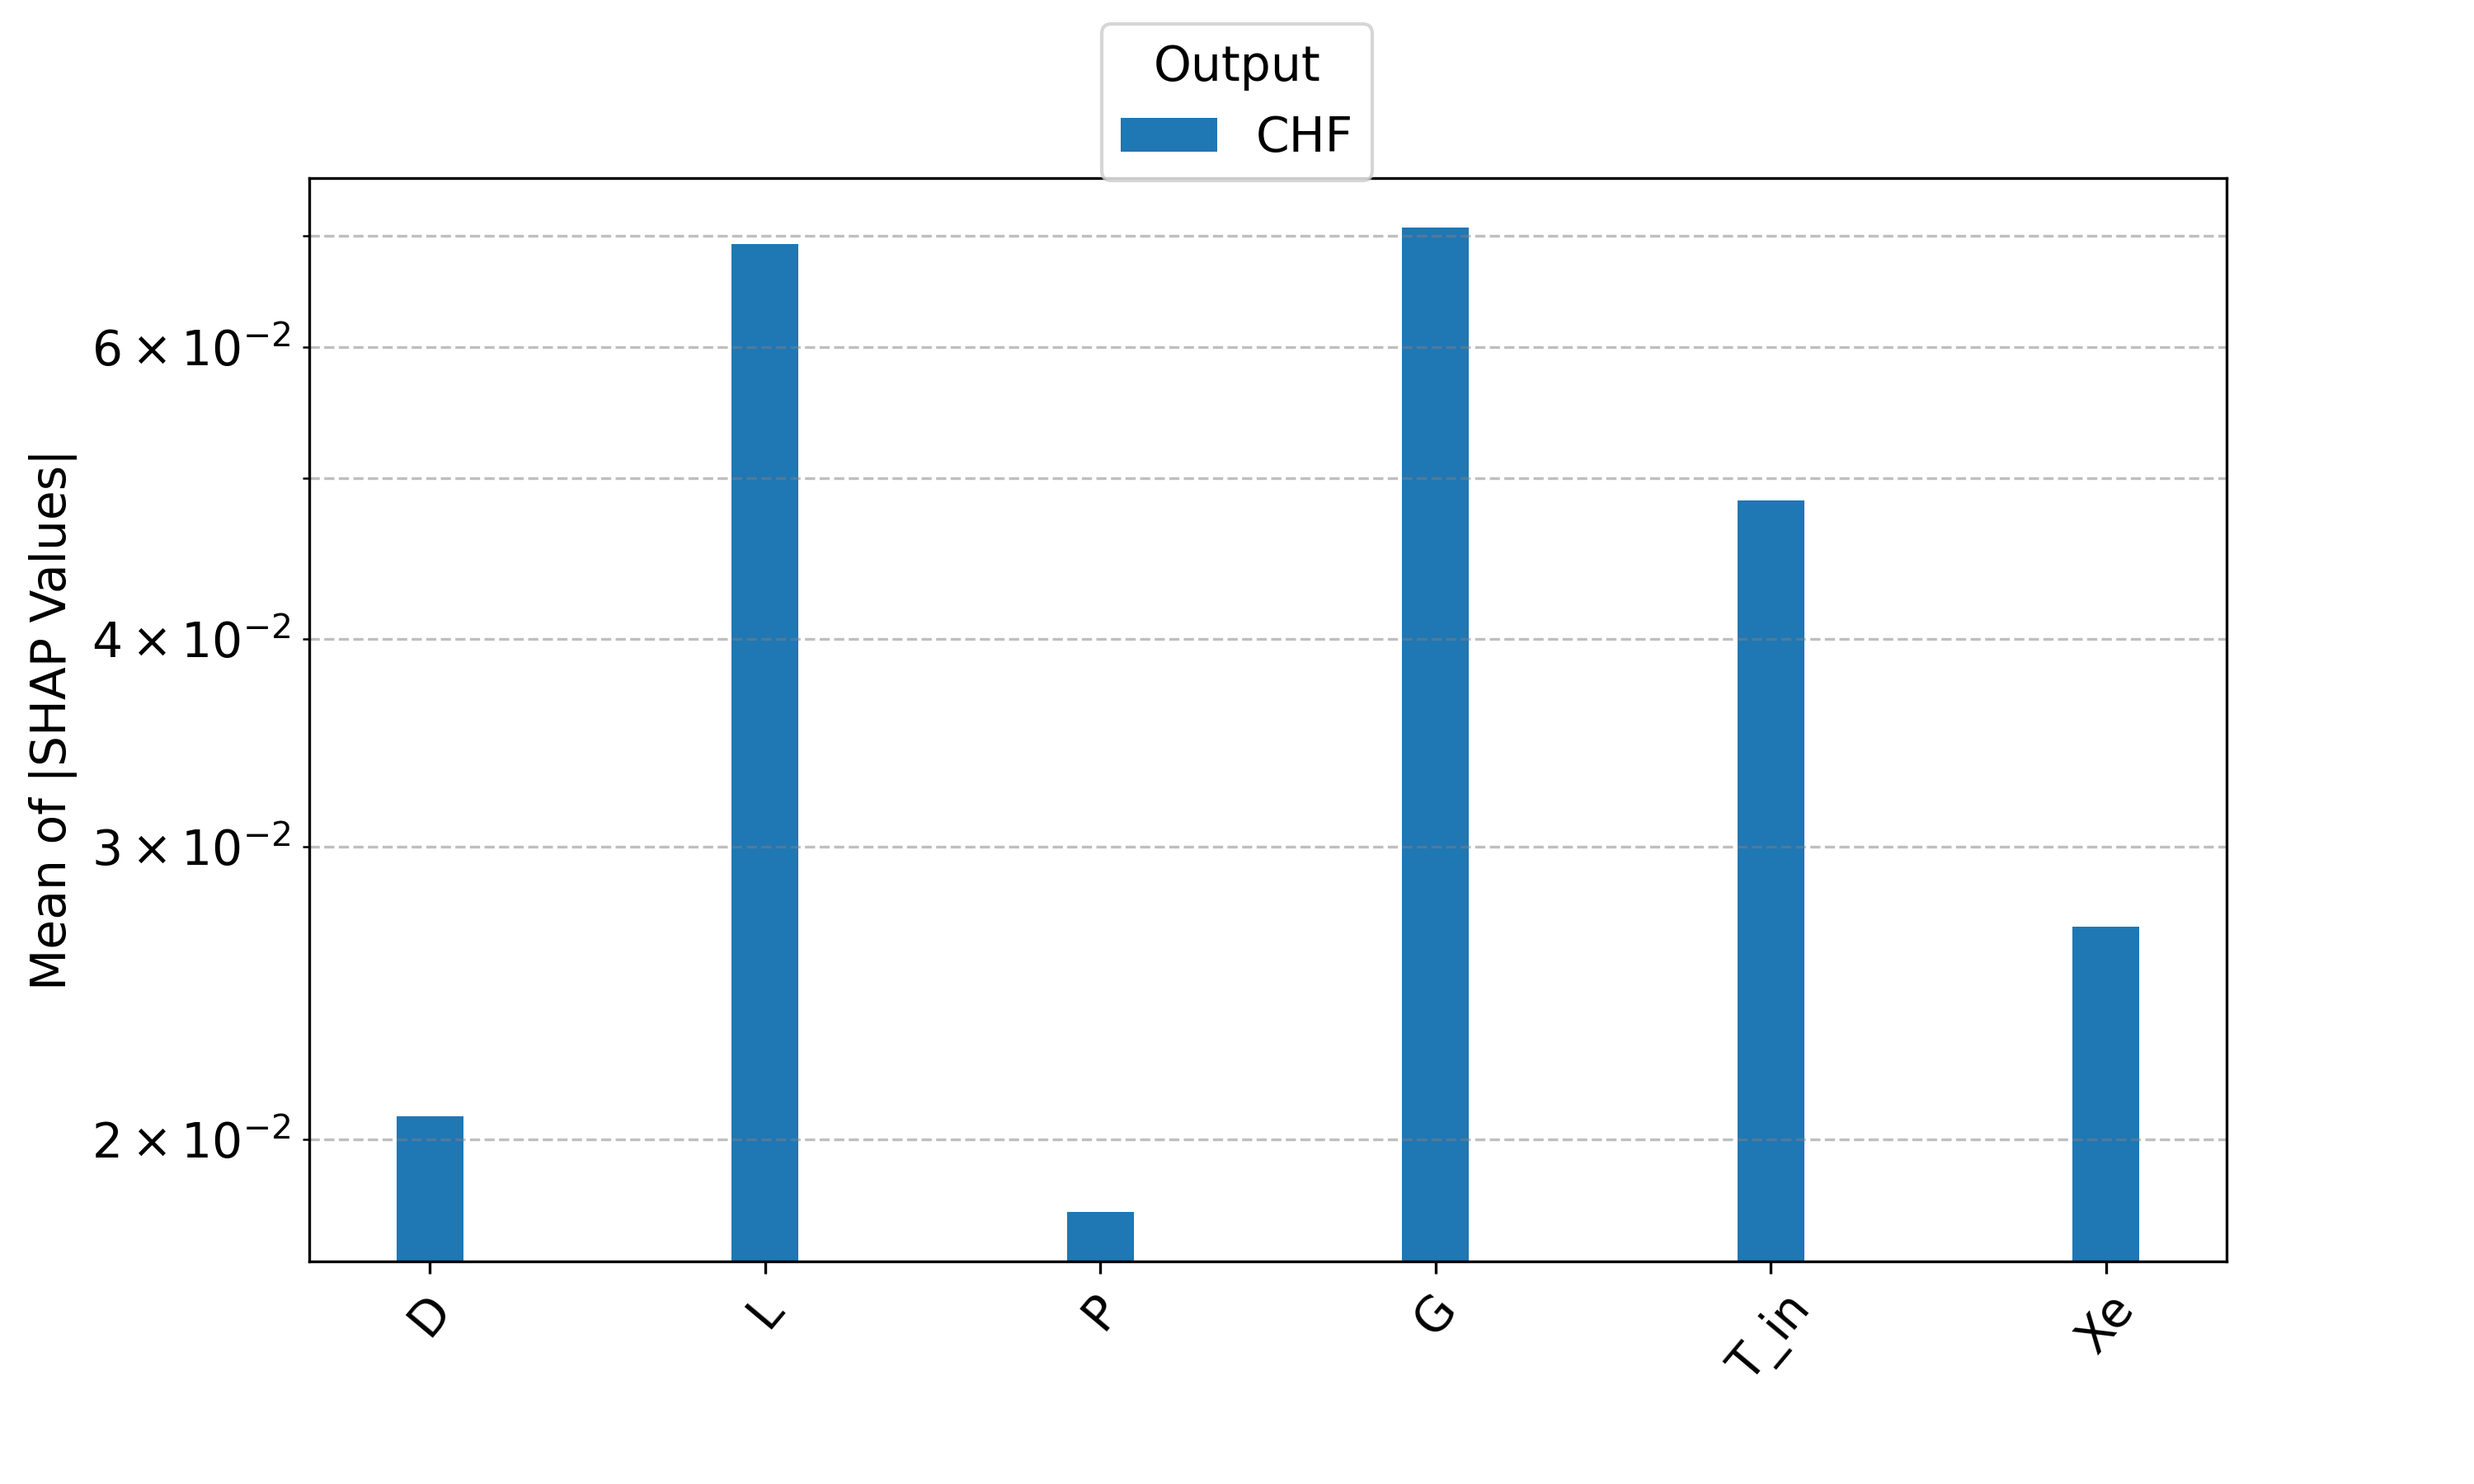
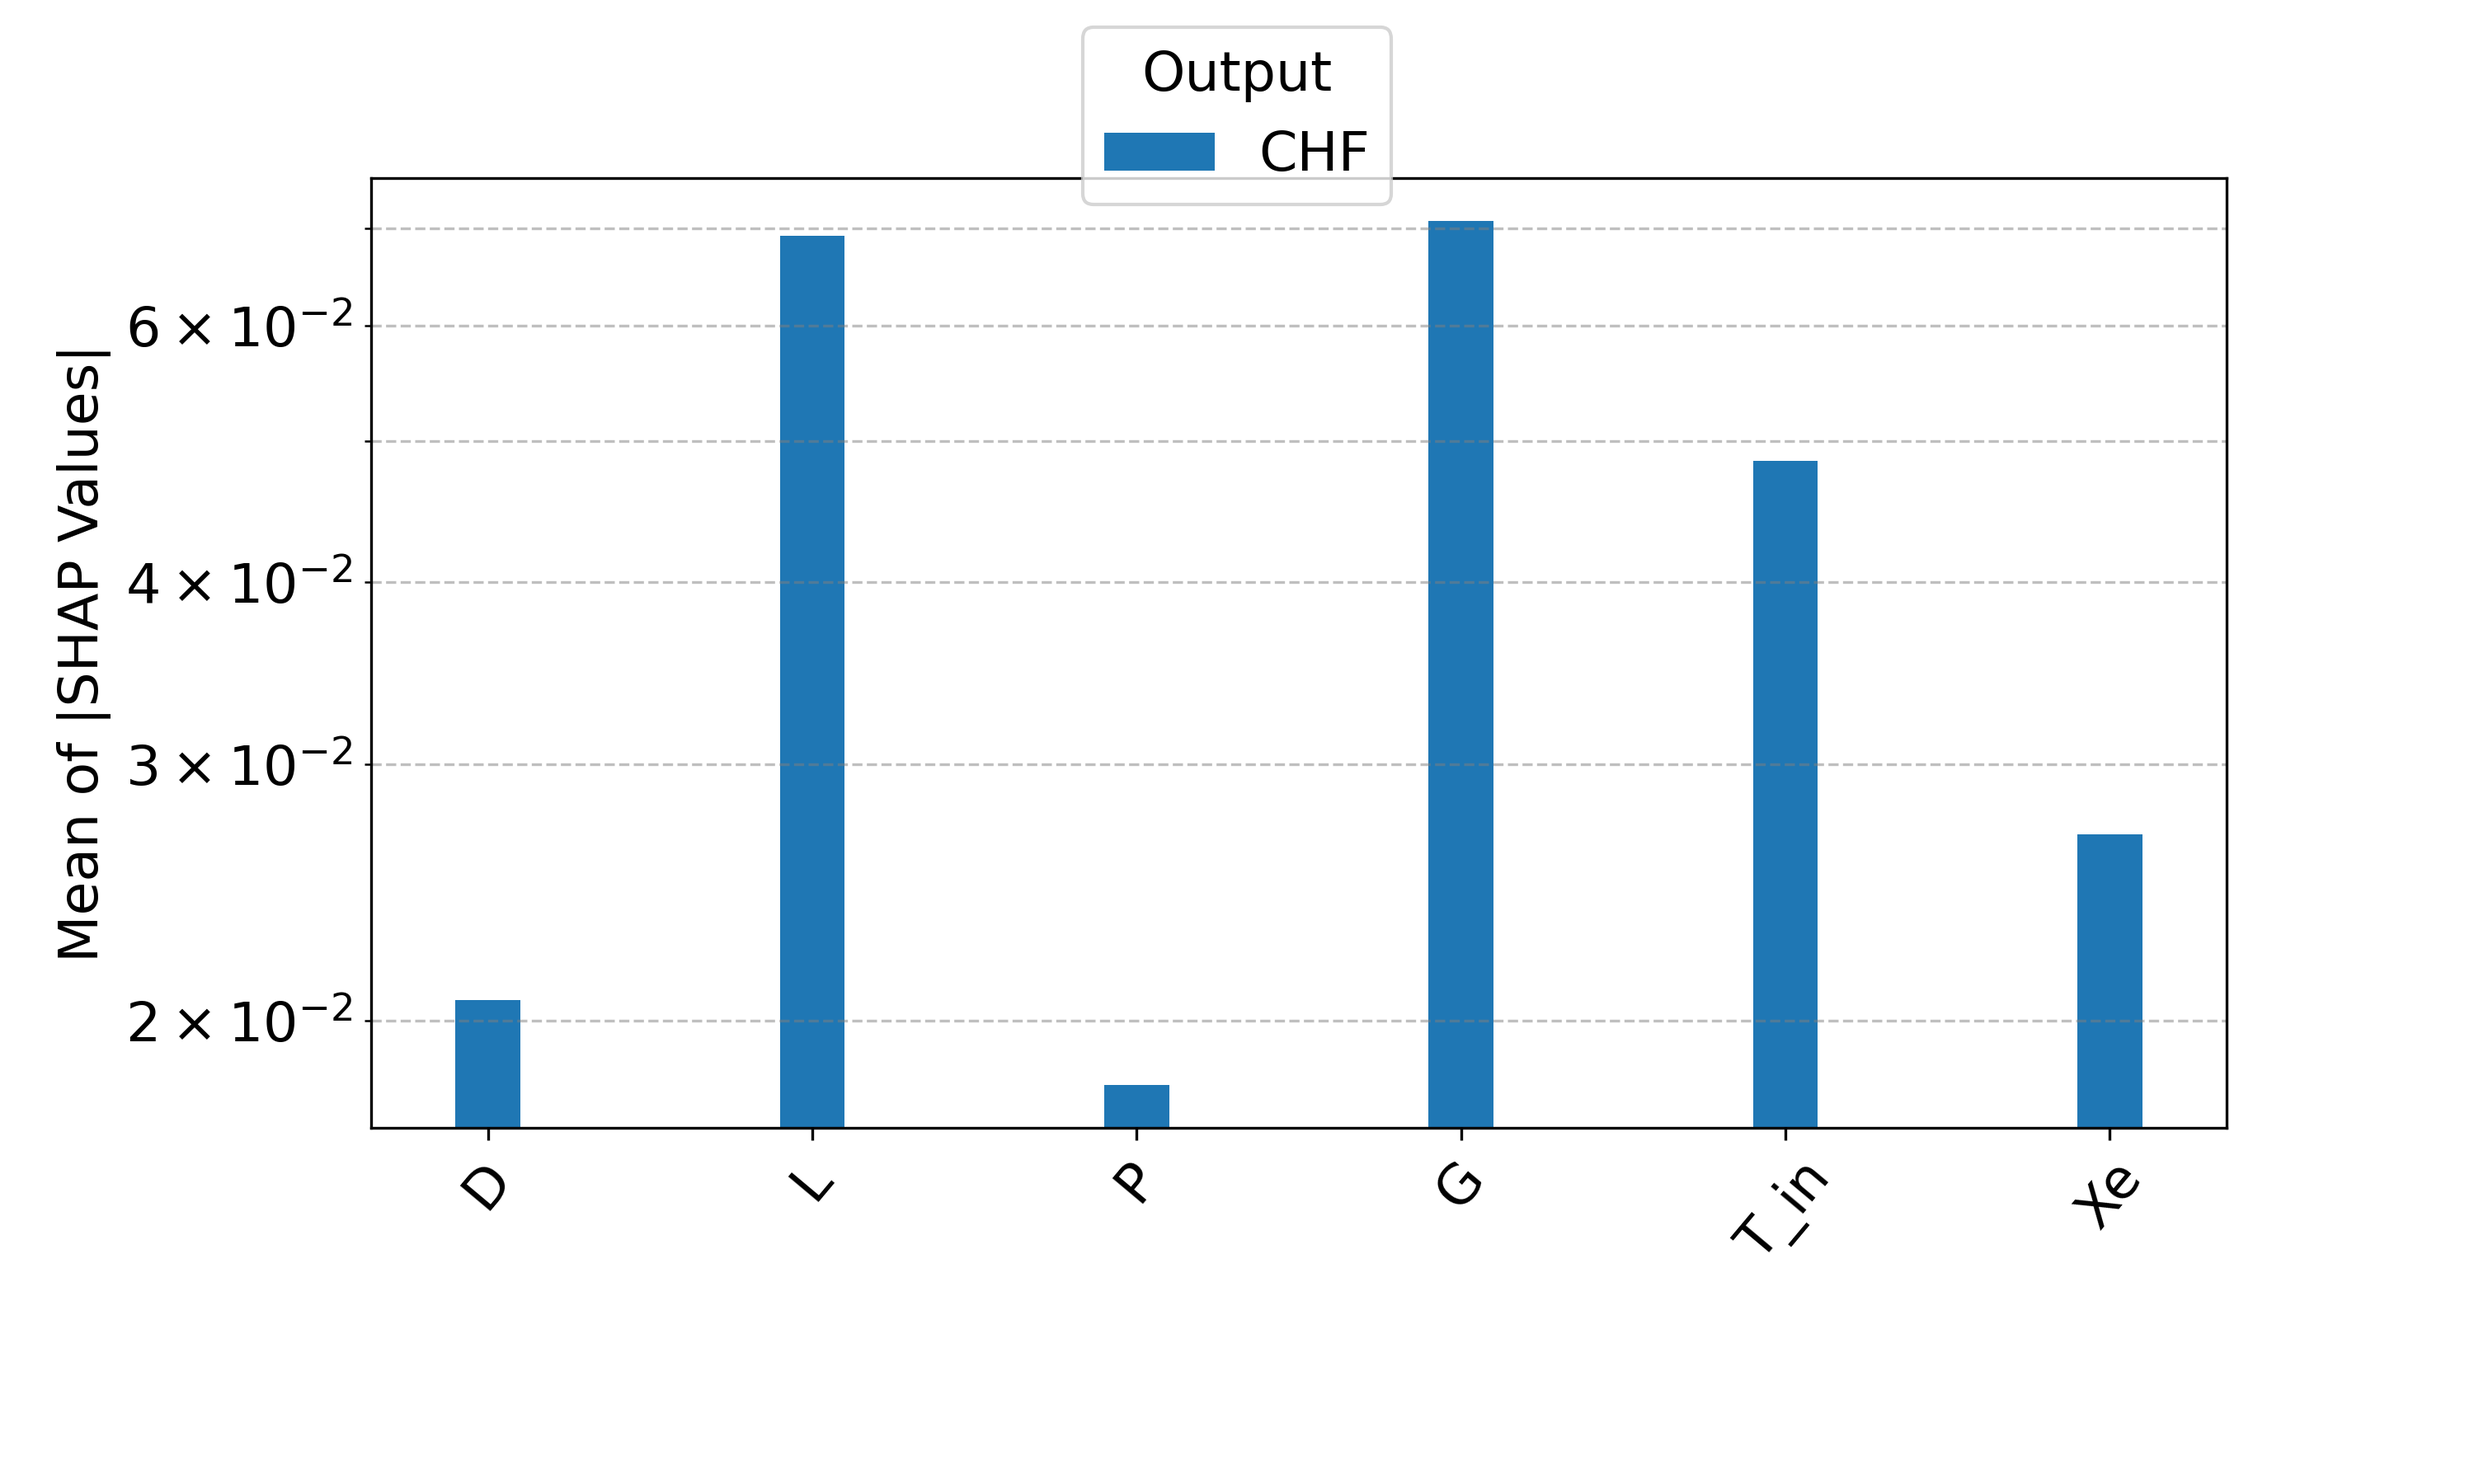
font 16

Changed region(s): [[0.0, 0.0, 0.899, 0.9022]]

diff --git a/explainability.py b/explainability.py
@@ -120,7 +120,7 @@ def plot_shap(path, save_as, type='kan', width=0.2):
     Returns:
         tuple: (fig, ax) matplotlib objects
     """
-    plt.rcParams.update({'font.size': 14})
+    plt.rcParams.update({'font.size': 16})
     shap_mean = pd.read_pickle(path)
     fig, ax = plt.subplots(figsize=(10,6))
     x_positions = np.arange(len(shap_mean.index))
@@ -140,7 +140,7 @@ def plot_shap(path, save_as, type='kan', width=0.2):
     ax.grid(True, which='both', axis='y', linestyle='--', color='gray', alpha=0.5)
     ax.set_xticks(x_positions + (n-1)*width/2)
     ax.set_xticklabels(input_names, rotation=50)
-    plt.subplots_adjust(bottom=0.24)
+    plt.subplots_adjust(bottom=0.27, left=0.15)
     #plt.tight_layout()
     if not os.path.exists('figures/shap'):
         os.makedirs('figures/shap')
